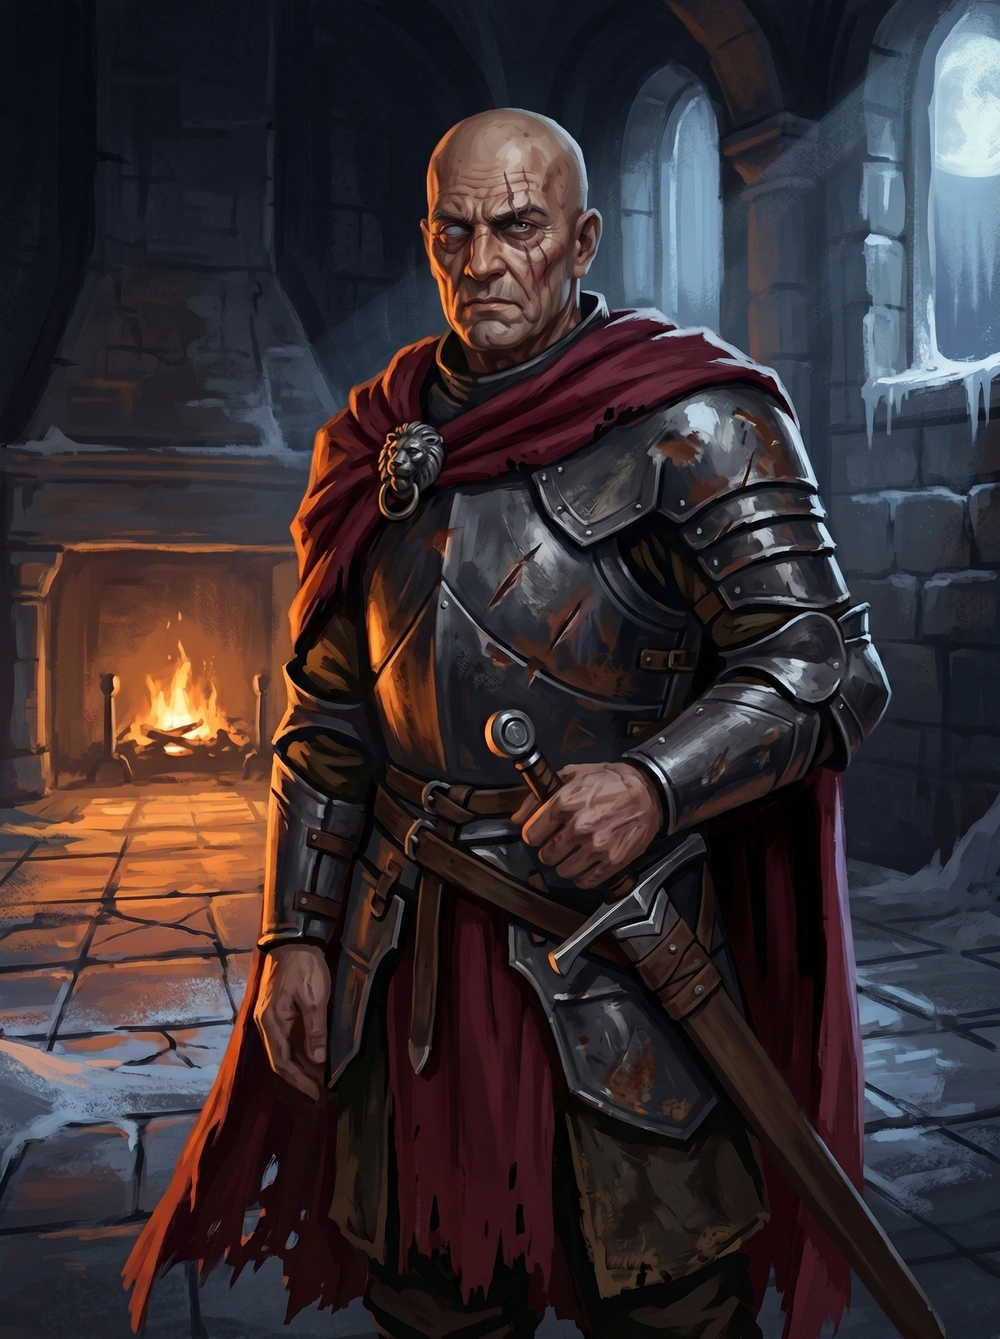
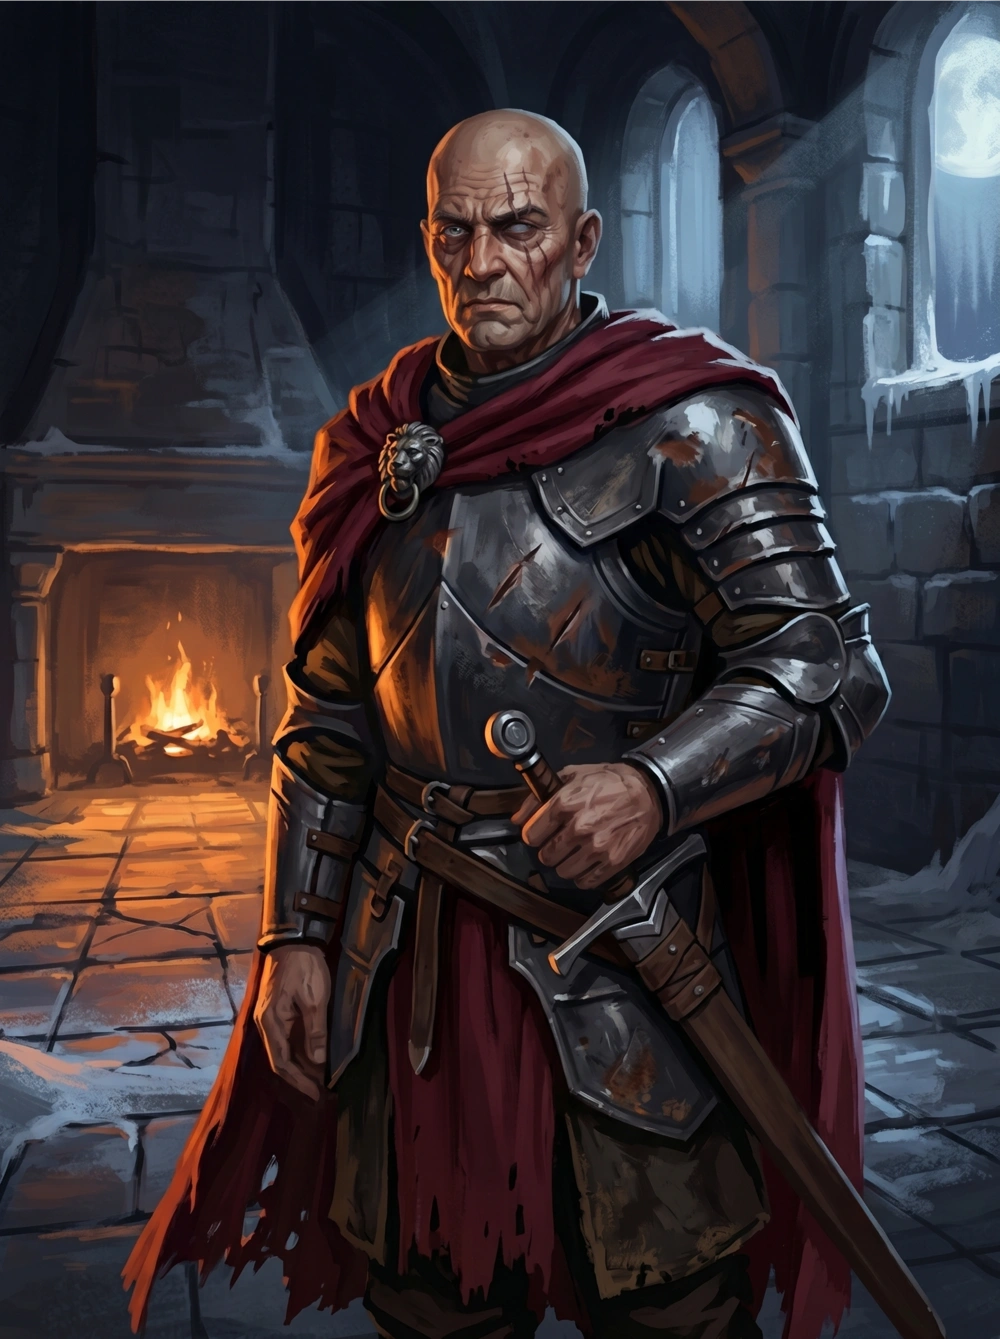
add player character stubs

diff --git a/Campaigns/The Bloody Nails/Characters/Eryndor.md b/Campaigns/The Bloody Nails/Characters/Eryndor.md
@@ -1,0 +1,54 @@
+---
+Type: Character
+Role: Player Character
+Species: Half-elf
+Class: Rogue
+Gender: Male
+Pronouns: He/Him
+Player: Deathmouse
+Affiliation: "[[The Bloody Nails]]"
+Status: Alive
+NoteIcon: pc
+cssclasses:
+  - hide-header-underline-3
+tags:
+  - character
+  - player-character
+aliases: []
+---
+> [!infobox|wikipedia]
+> # Eryndor
+> [![[Eryndor_small.webp|cover hsmall]]](Eryndor.webp)
+> ###### Basic Information
+> Attribute |  Details |
+> ---|---|
+> Type | Player Character |
+> ###### Character Information
+> Attribute |  Details |
+> ---|---|
+> Species | Half-elf |
+> Class | Rogue |
+> Pronouns | He/Him |
+> Player | Deathmouse |
+> ###### Affiliation
+> Attribute |  Details |
+> ---|---|
+> Group | [[The Bloody Nails]] |
+> ###### Status
+> Attribute |  Details |
+> ---|---|
+> Status | Alive |
+
+Eryndor is a half-elven rogue of [[The Bloody Nails]], and the one who gave the group its name.
+
+## Description
+
+A half-elf who keeps to the margins, quick of hand and rarely staying anywhere long enough to be remembered.
+
+## Personality
+
+Resourceful and quietly defiant, the sort to find the angle others miss.
+
+## Role in the Party
+
+The party's rogue. It was Eryndor who tore a rusty nail from the hull of the slave ship that first brought the group together — the act that gave the Bloody Nails their name.

diff --git a/Campaigns/The Bloody Nails/Characters/Ryo.md b/Campaigns/The Bloody Nails/Characters/Ryo.md
@@ -1,0 +1,54 @@
+---
+Type: Character
+Role: Player Character
+Species: Elf
+Class: Ranger
+Gender: Male
+Pronouns: He/Him
+Player: JC
+Affiliation: "[[The Bloody Nails]]"
+Status: Alive
+NoteIcon: pc
+cssclasses:
+  - hide-header-underline-3
+tags:
+  - character
+  - player-character
+aliases: [Ryordan]
+---
+> [!infobox|wikipedia]
+> # Ryo
+> [![[Ryo_small.webp|cover hsmall]]](Ryo.webp)
+> ###### Basic Information
+> Attribute |  Details |
+> ---|---|
+> Type | Player Character |
+> ###### Character Information
+> Attribute |  Details |
+> ---|---|
+> Species | Elf |
+> Class | Ranger |
+> Pronouns | He/Him |
+> Player | JC |
+> ###### Affiliation
+> Attribute |  Details |
+> ---|---|
+> Group | [[The Bloody Nails]] |
+> ###### Status
+> Attribute |  Details |
+> ---|---|
+> Status | Alive |
+
+Ryo is an elven ranger of [[The Bloody Nails]], a full-blooded elf in an age when his kind have all but vanished from [[Valtorra]].
+
+## Description
+
+A full-blooded elf who keeps his ears hidden and his presence light, moving carefully through a land that has little love for his kind.
+
+## Personality
+
+Watchful and self-reliant, more comfortable reading a treeline than a crowded room.
+
+## Role in the Party
+
+The party's ranger and tracker, at home in the wild places the Bloody Nails pass through.

diff --git a/Campaigns/The Bloody Nails/Characters/Berberis.md b/Campaigns/The Bloody Nails/Characters/Berberis.md
@@ -1,0 +1,55 @@
+---
+Type: Character
+Role: Player Character
+Species: Human
+Class: Druid
+Gender: Male
+Pronouns: He/Him
+Player: Vael
+Affiliation: "[[The Bloody Nails]]"
+Status: Alive
+NoteIcon: pc
+cssclasses:
+  - hide-header-underline-3
+tags:
+  - character
+  - player-character
+aliases: []
+---
+> [!infobox|wikipedia]
+> # Berberis
+> [![[Berberis_small.webp|cover hsmall]]](Berberis.webp)
+> ###### Basic Information
+> Attribute |  Details |
+> ---|---|
+> Type | Player Character |
+> ###### Character Information
+> Attribute |  Details |
+> ---|---|
+> Species | Human |
+> Class | Druid |
+> Pronouns | He/Him |
+> Player | Vael |
+> ###### Affiliation
+> Attribute |  Details |
+> ---|---|
+> Group | [[The Bloody Nails]] |
+> ###### Status
+> Attribute |  Details |
+> ---|---|
+> Status | Alive |
+
+Berberis is a human druid of [[The Bloody Nails]].
+
+## Description
+
+A weathered, middle-aged human, his red hair and beard greying and woven through with living vines, clad in furs and bark-worn armour.
+
+## Personality
+
+Gruff and blunt to a fault, the militant edge of a gentler calling.
+
+## Role in the Party
+
+The party's druid, wielding the wild's own fury against the Empire's encroachment.
+

diff --git a/Campaigns/The Bloody Nails/Characters/Dondar.md b/Campaigns/The Bloody Nails/Characters/Dondar.md
@@ -1,0 +1,55 @@
+---
+Type: Character
+Role: Player Character
+Species: Dwarf
+Class: Wizard
+Gender: Male
+Pronouns: He/Him
+Player: Kiwi
+Affiliation: "[[The Bloody Nails]]"
+Status: Alive
+NoteIcon: pc
+cssclasses:
+  - hide-header-underline-3
+tags:
+  - character
+  - player-character
+aliases: []
+---
+> [!infobox|wikipedia]
+> # Dondar
+> [![[Dondar_small.webp|cover hsmall]]](Dondar.webp)
+> ###### Basic Information
+> Attribute |  Details |
+> ---|---|
+> Type | Player Character |
+> ###### Character Information
+> Attribute |  Details |
+> ---|---|
+> Species | Dwarf |
+> Class | Wizard |
+> Pronouns | He/Him |
+> Player | Kiwi |
+> ###### Affiliation
+> Attribute |  Details |
+> ---|---|
+> Group | [[The Bloody Nails]] |
+> ###### Status
+> Attribute |  Details |
+> ---|---|
+> Status | Alive |
+
+Dondar is a dwarven wizard of [[The Bloody Nails]].
+
+## Description
+
+A dwarf who has turned to the arcane, carrying his study with him through the group's travels.
+
+## Personality
+
+Studious and sharp, with a stake in the fight against the Empire that runs deeper than it first appears.
+
+## Role in the Party
+
+The party's wizard and arcane spellcaster.
+

diff --git a/Campaigns/The Bloody Nails/Characters/Neros.md b/Campaigns/The Bloody Nails/Characters/Neros.md
@@ -1,0 +1,55 @@
+---
+Type: Character
+Role: Player Character
+Species: Half-elf
+Class: Druid
+Gender: Male
+Pronouns: He/Him
+Player: Woop (inactive)
+Affiliation: "[[The Bloody Nails]]"
+Status: Alive
+NoteIcon: pc
+cssclasses:
+  - hide-header-underline-3
+tags:
+  - character
+  - player-character
+aliases: []
+---
+> [!infobox|wikipedia]
+> # Neros
+> [![[Neros_small.webp|cover hsmall]]](Neros.webp)
+> ###### Basic Information
+> Attribute |  Details |
+> ---|---|
+> Type | Player Character |
+> ###### Character Information
+> Attribute |  Details |
+> ---|---|
+> Species | Half-elf |
+> Class | Druid |
+> Pronouns | He/Him |
+> Player | Woop (inactive) |
+> ###### Affiliation
+> Attribute |  Details |
+> ---|---|
+> Group | [[The Bloody Nails]] |
+> ###### Status
+> Attribute |  Details |
+> ---|---|
+> Status | Alive |
+
+Neros is a half-elven druid of [[The Bloody Nails]].
+
+## Description
+
+A half-elf at home in the wild, drawing on the strength of the natural world.
+
+## Personality
+
+Quiet and grounded, attuned to the places the party passes through.
+
+## Role in the Party
+
+The party's druid, shaping the natural world to the group's needs.
+

diff --git a/Campaigns/The Bloody Nails/Characters/Kai.md b/Campaigns/The Bloody Nails/Characters/Kai.md
@@ -1,0 +1,54 @@
+---
+Type: Character
+Role: Player Character
+Species: Human
+Class: Cleric
+Gender: Male
+Pronouns: He/Him
+Player: Lacer8
+Affiliation: "[[The Bloody Nails]]"
+Status: Alive
+NoteIcon: pc
+cssclasses:
+  - hide-header-underline-3
+tags:
+  - character
+  - player-character
+aliases: []
+---
+> [!infobox|wikipedia]
+> # Kai
+> [![[Kai_small.webp|cover hsmall]]](Kai.webp)
+> ###### Basic Information
+> Attribute |  Details |
+> ---|---|
+> Type | Player Character |
+> ###### Character Information
+> Attribute |  Details |
+> ---|---|
+> Species | Human |
+> Class | Cleric |
+> Pronouns | He/Him |
+> Player | Lacer8 |
+> ###### Affiliation
+> Attribute |  Details |
+> ---|---|
+> Group | [[The Bloody Nails]] |
+> ###### Status
+> Attribute |  Details |
+> ---|---|
+> Status | Alive |
+
+Kai is a human cleric of [[The Bloody Nails]].
+
+## Description
+
+A human who carries faith into the group's hardest moments.
+
+## Personality
+
+Steady and devoted, a source of conviction when the party needs one.
+
+## Role in the Party
+
+The party's cleric, tending to the wounded and channelling divine power.

diff --git a/Campaigns/The Bloody Nails/Characters/Vaeleran.md b/Campaigns/The Bloody Nails/Characters/Vaeleran.md
@@ -1,0 +1,54 @@
+---
+Type: Character
+Role: Player Character
+Species: Human
+Class: Fighter
+Gender: Male
+Pronouns: He/Him
+Player: Vael
+Affiliation: "[[The Bloody Nails]]"
+Status: Alive
+NoteIcon: pc
+cssclasses:
+  - hide-header-underline-3
+tags:
+  - character
+  - player-character
+aliases: []
+---
+> [!infobox|wikipedia]
+> # Vaeleran
+> [![[Vaeleran_small.webp|cover hsmall]]](Vaeleran.webp)
+> ###### Basic Information
+> Attribute |  Details |
+> ---|---|
+> Type | Player Character |
+> ###### Character Information
+> Attribute |  Details |
+> ---|---|
+> Species | Human |
+> Class | Fighter |
+> Pronouns | He/Him |
+> Player | Vael |
+> ###### Affiliation
+> Attribute |  Details |
+> ---|---|
+> Group | [[The Bloody Nails]] |
+> ###### Status
+> Attribute |  Details |
+> ---|---|
+> Status | Alive |
+
+Vaeleran is a human fighter of [[The Bloody Nails]].
+
+## Description
+
+A human warrior who stands at the front when the fighting starts.
+
+## Personality
+
+Direct and dependable, the steel the party leans on.
+
+## Role in the Party
+
+The party's fighter, holding the front line in battle.
